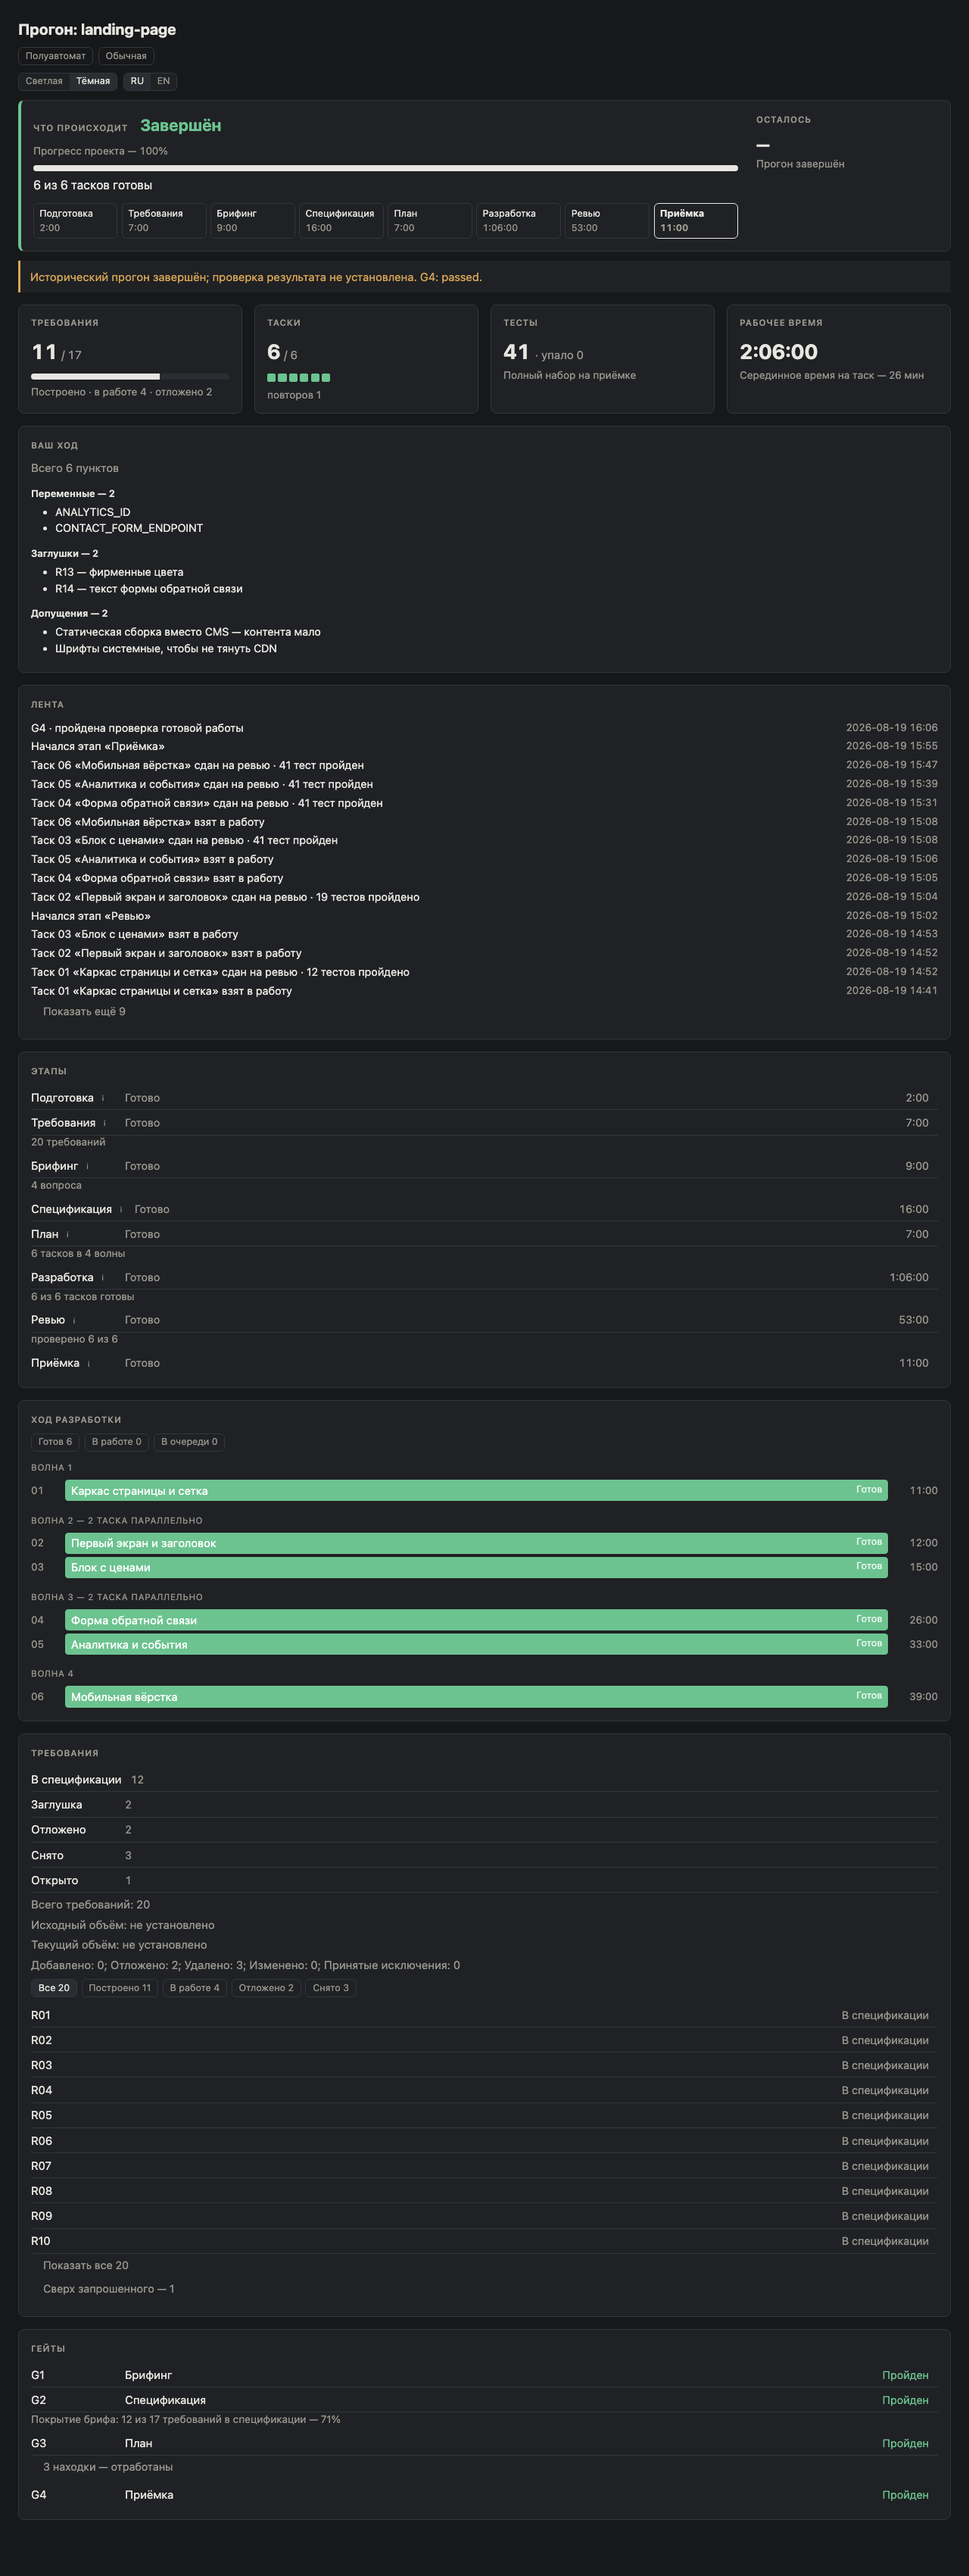
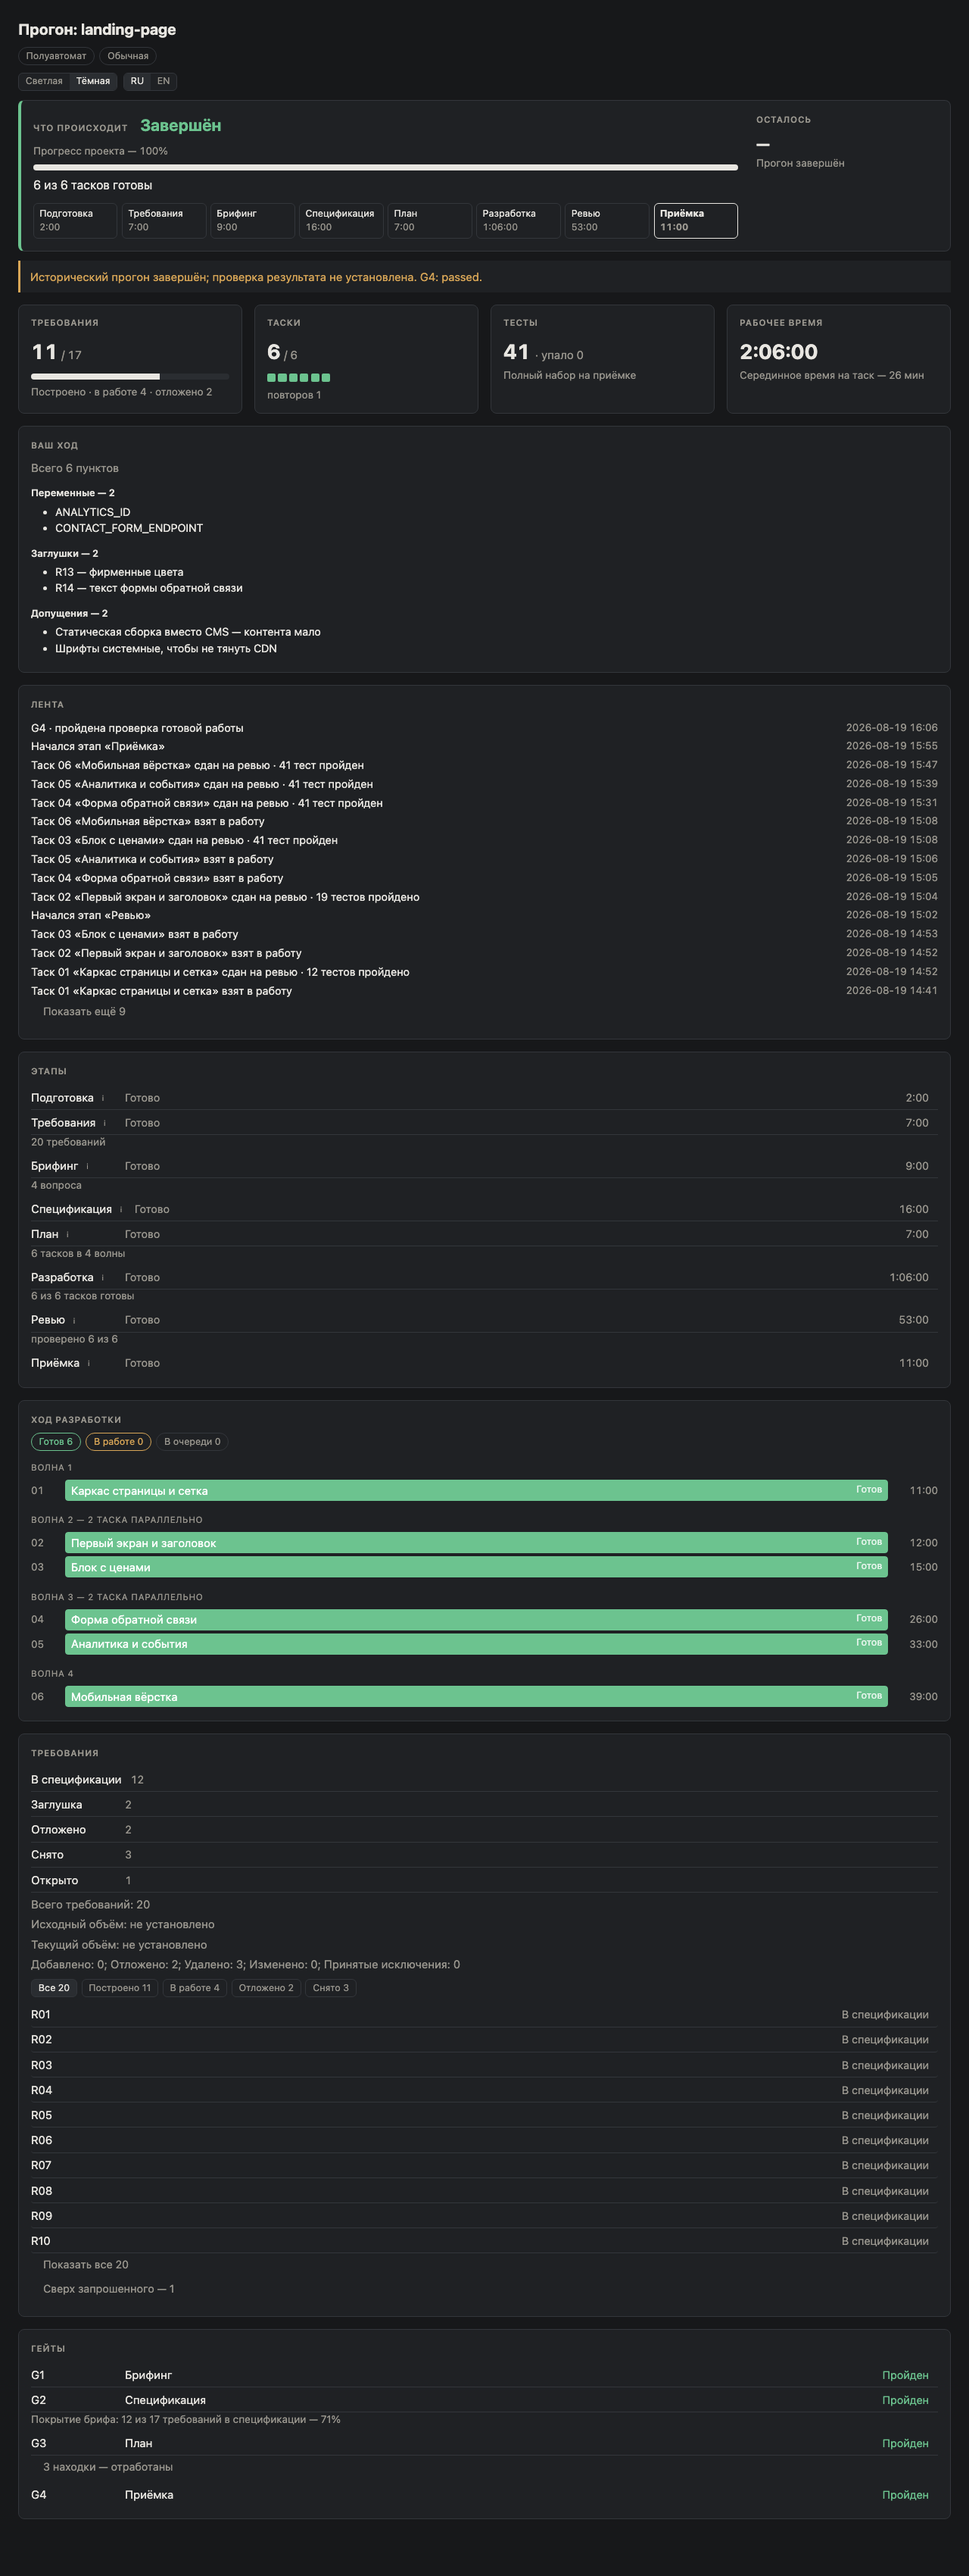
docs: show the dashboard at pane width and close the roadmap item

diff --git a/docs/dashboard.md b/docs/dashboard.md
@@ -54,6 +54,14 @@ sources and independent returns before passing new gates.
 
 ![The dashboard during the build stage](assets/dashboard-running.png)
 
+![The same run in a pane 500 pixels wide](assets/dashboard-pane.png)
+
+The page usually sits in a pane beside the chat, so below `62rem` (992 pixels)
+it is dense: tighter padding, smaller headline numbers, the four cards two by
+two, and the strip of stages wrapped into as many cells as fit. The regions are
+the same and in the same order, nothing is hidden, and nothing scrolls
+sideways. See [the specification](spec/dashboard.md#a-narrow-pane).
+
 The page opens with a band that says what is happening. On its left, the
 прогон's condition as one word and a colour — «Идёт работа», «Ждёт вас»,
 «Завершён» or «Сбой». Under the word is a bar, one sentence about the таски
@@ -383,6 +391,21 @@ cp docs/assets/state-finished.fixture.js /tmp/shot/state.js
   --virtual-time-budget=4000 --window-size=1280,3400 \
   --screenshot=docs/assets/dashboard-finished.png file:///tmp/shot/dashboard.html
 ```
+
+The pane capture is the running fixture in a window 500 pixels wide:
+
+```bash
+cp docs/assets/state-running.fixture.js /tmp/shot/state.js
+"/Applications/Google Chrome.app/Contents/MacOS/Google Chrome" \
+  --headless --disable-gpu --hide-scrollbars --allow-file-access-from-files \
+  --virtual-time-budget=4000 --window-size=500,1800 \
+  --screenshot=docs/assets/dashboard-pane.png file:///tmp/shot/dashboard.html
+```
+
+It is 500 wide because headless Chrome lays out no narrower: a smaller
+`--window-size` still gives an `innerWidth` of 500.
+A width inside the pane range below that, such as 380, is looked at by framing
+the page in an `<iframe>` of that width.
 
 The window is 3400 pixels tall, up from 2500 when the requirement list gained
 its chips, so the capture holds the whole page down to the checks: «Все 20»

diff --git a/CHANGELOG.md b/CHANGELOG.md
@@ -84,6 +84,18 @@ number that claimed more than that would be claiming it falsely.
   before «Показать все N», and a deferred, placeholder or dropped row shows its
   reason inline. The chosen chip stays in the browser and never reaches the
   run. No contract change.
+- **The status chips keep their pill and their colour again.** The mode and
+  depth chips in the header and the build-status chips over the waves had
+  lost their round shape and their status border to the requirement filter's
+  chips, which were styled under the same class; the filter's rule is now
+  scoped to its own row.
+- **A narrow pane gets a dense layout.** Below `62rem` the page uses tighter
+  padding, smaller headline numbers and the cards two by two, and the stage
+  strip wraps into as many `6rem` cells as fit instead of breaking labels
+  mid-word. The regions, their order and the full-width page are unchanged.
+  The stylesheet is narrow-first, and `npm run dashboard` holds its width
+  queries to the new breakpoint table in `docs/spec/dashboard.md` › *A Narrow
+  Pane*. No contract change.
 - **A wait for the user stops the clocks.** From contract 9 the dashboard cuts
   every closed wait and the open one out of working time, the stage clocks, the
   таск durations, the median and the estimate before the 45-minute ceiling

diff --git a/README.md b/README.md
@@ -637,7 +637,8 @@ parallelism you paid for is the parallelism you can see — measured from the
 clocks rather than claimed from the plan. Every таск bar says its status in a
 word; a bar in repair quotes what was sent back, a failed bar names how the last
 repair attempt ended, and a wave that has not started names the таски it waits
-for. Every number is computed from the run
+for. In a pane narrower than 992 pixels the page turns dense — the same
+regions, tighter, the cards two by two — and never scrolls sideways. Every number is computed from the run
 state when the page draws itself, and «осталось» is a range, review and acceptance
 included, that refuses to be sharper than the прогоны it was measured from.
 
